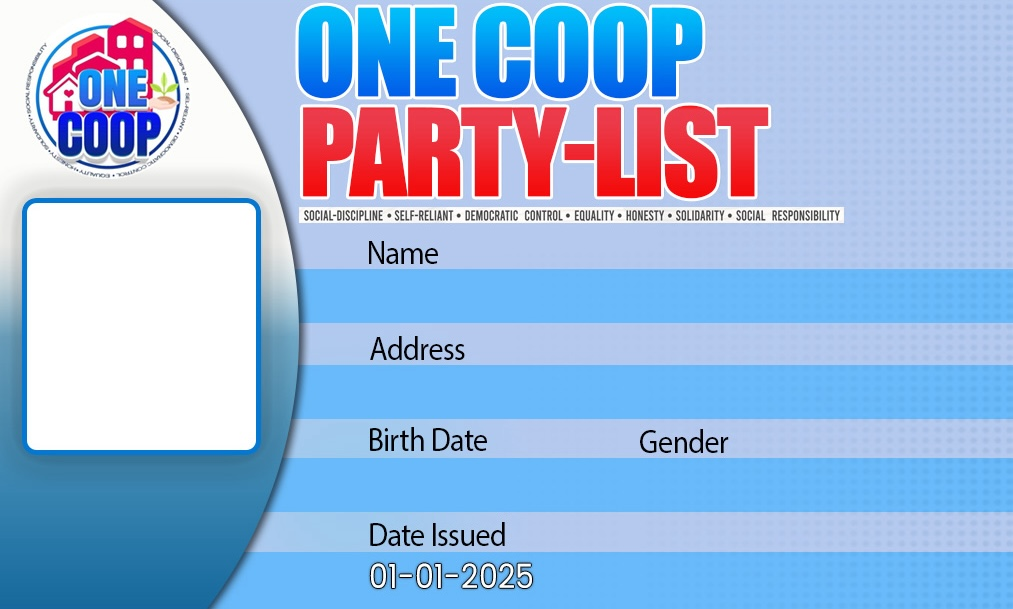
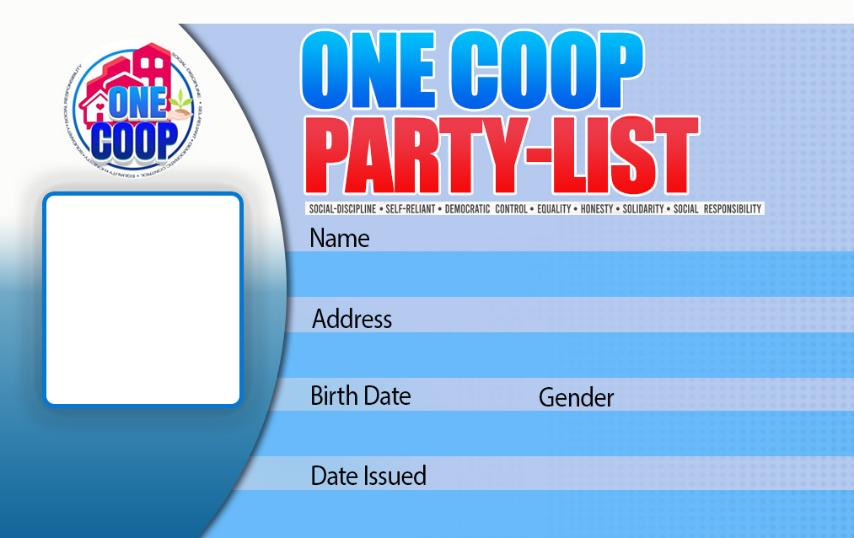
..

diff --git a/app/(profiling)/householdleaders/PrintModal.tsx b/app/(profiling)/householdleaders/PrintModal.tsx
@@ -208,20 +208,23 @@ export default function PrintModal({ hideModal, details }: ModalProps) {
                     height={400}
                     alt="ID Layout"
                   />
-                  <span className="text-xs absolute top-[101px] left-36 tracking-tighter">
+                  <span className="text-xs absolute top-[112px] left-36 tracking-tighter font-bold">
                     {fullname}
                   </span>
 
-                  <span className="text-xs absolute top-[141px] left-36 tracking-tighter">
+                  <span className="text-xs absolute top-[152px] left-36 tracking-tighter ">
                     {address}
                   </span>
-                  <span className="text-xs absolute top-[177px] left-36 tracking-tighter">
+                  <span className="text-xs absolute top-[188px] left-36 tracking-tighter ">
                     {birthday}
                   </span>
-                  <span className="text-xs absolute top-[177px] left-64 tracking-tighter">
+                  <span className="text-xs absolute top-[188px] left-64 tracking-tighter ">
                     {gender}
                   </span>
-                  <span className="text-xs absolute top-[177px] left-2 text-white tracking-tighter">
+                  <span className="text-xs absolute top-[222px] left-36 tracking-tighter ">
+                    01-01-2025
+                  </span>
+                  <span className="text-xs absolute top-[192px] left-3 text-white tracking-tighter ">
                     ID No. {idNo}
                   </span>
                   {photoIdPreview && (
@@ -231,7 +234,7 @@ export default function PrintModal({ hideModal, details }: ModalProps) {
                         width={92}
                         height={92}
                         alt="profile preview"
-                        className="absolute top-[80px] left-[10px]"
+                        className="absolute top-[91px] left-[21px]"
                       />
                     </>
                   )}
